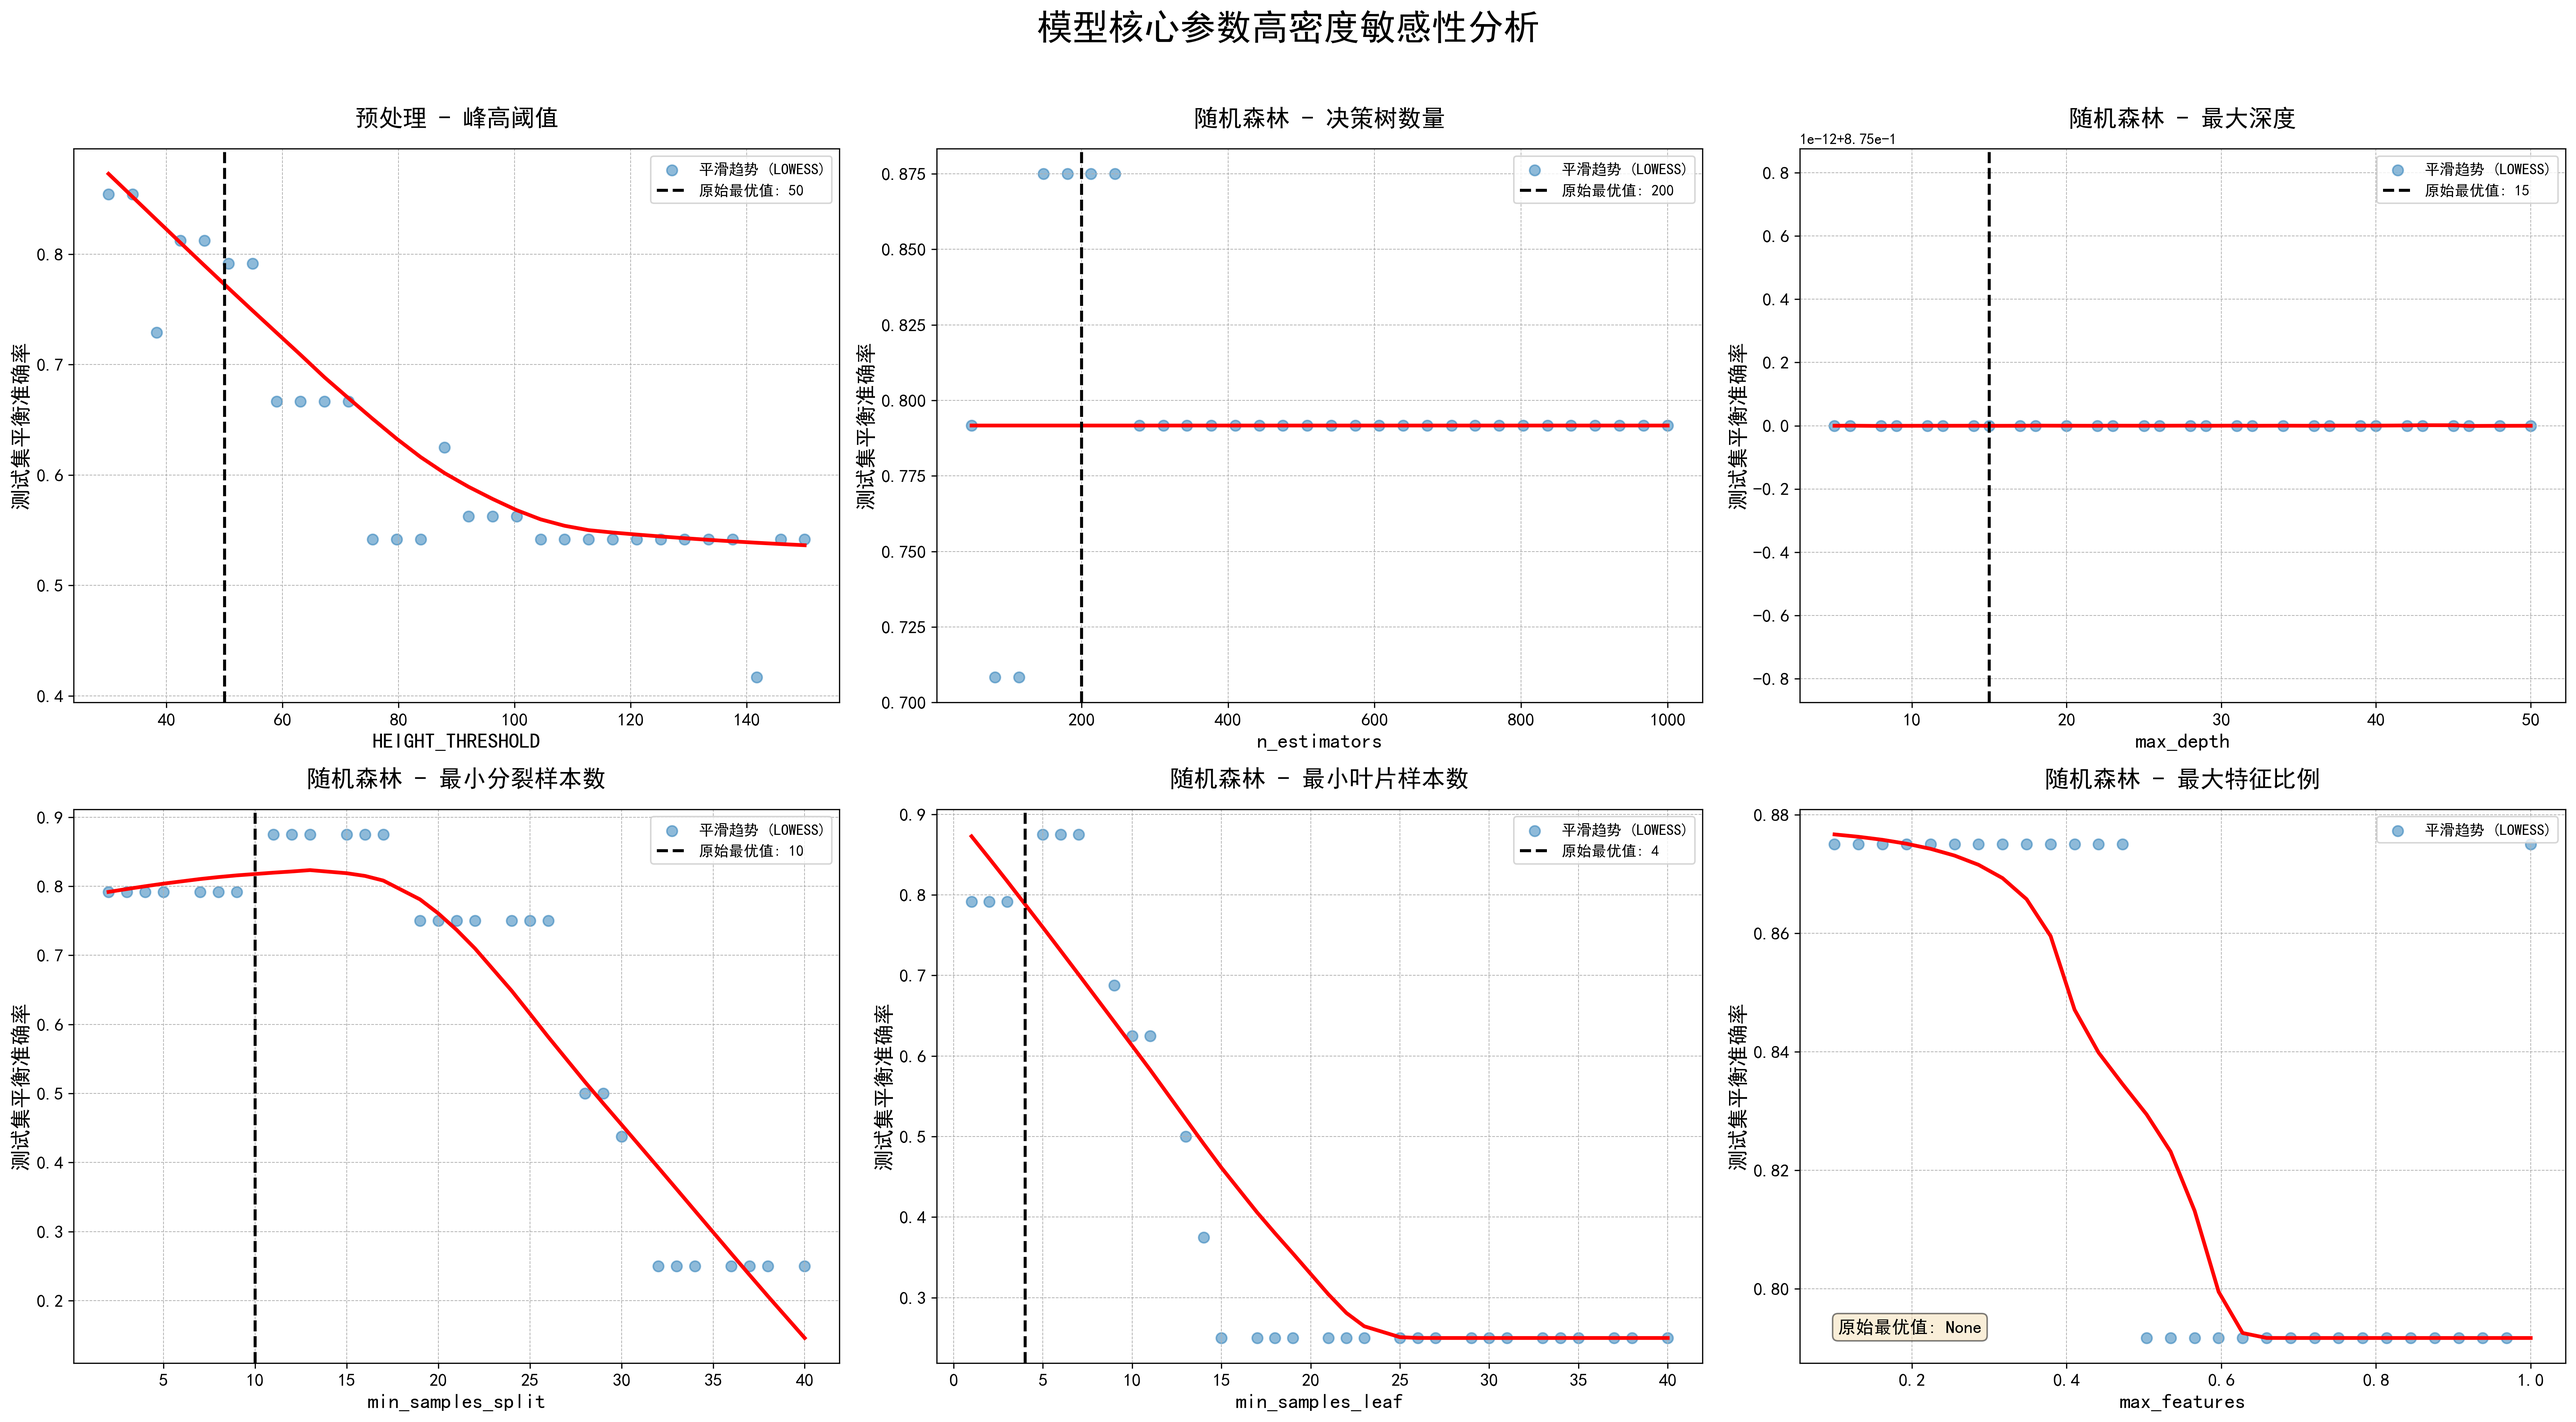
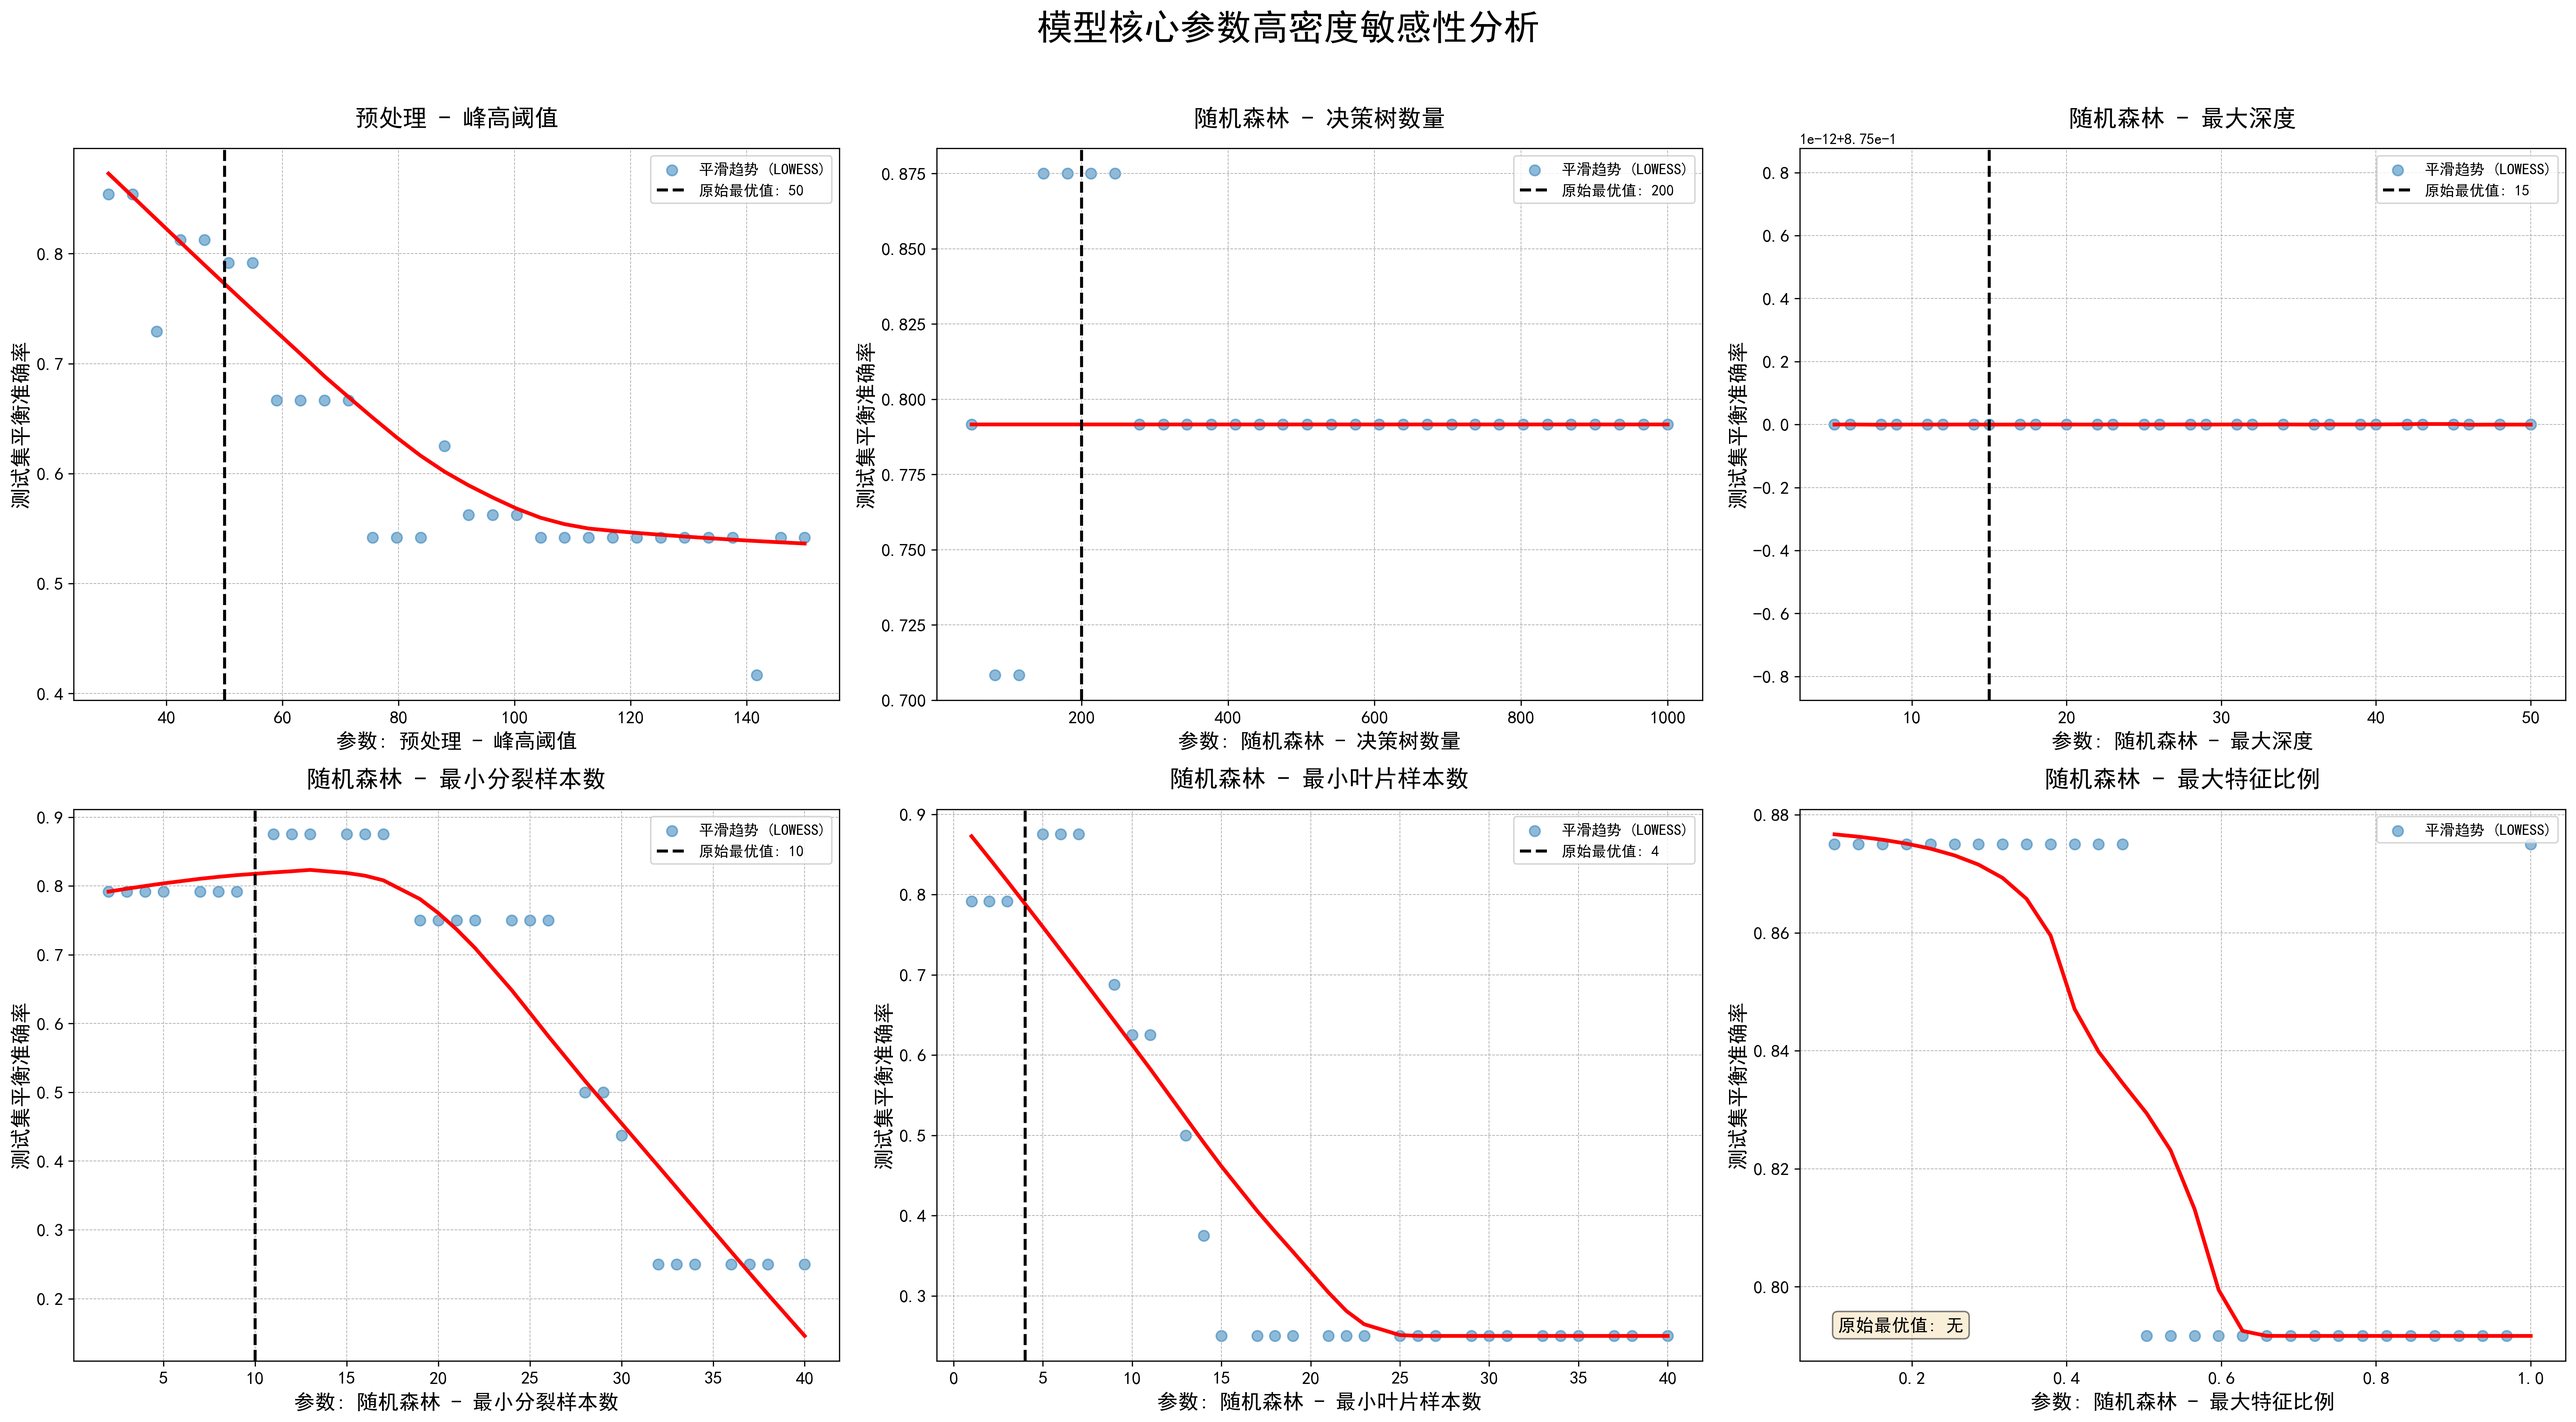
Problem 1 sensitivity analysis chinese version updated

diff --git a/Q1/Q1S.py b/Q1/Q1S.py
@@ -2,15 +2,11 @@
 """
 数学建模 - 法医DNA分析 - 模型为核心的全面参数敏感性分析脚本
 
-版本: V4.2 (None值安全处理版)
+版本: V4.3 (全中文可视化版)
 日期: 2025-06-08
 描述:
-本版本修正了V4.1中因最优参数值为None而导致的绘图错误。
-在绘制代表最优值的垂直线时，增加了对None值的检查，确保程序能够稳健运行。
-
-分析参数:
-  - 预处理: HEIGHT_THRESHOLD
-  - 随机森林: n_estimators, max_depth, min_samples_split, min_samples_leaf, max_features
+本版本基于V4.2，将Matplotlib图表中的所有文本元素（坐标轴、标题、图例等）
+完全中文化，提升图表的可读性。
 """
 # =====================
 # 0. 关键修正：设置Matplotlib后端
@@ -47,11 +43,12 @@ PLOTS_DIR = os.path.join(BASE_DIR, 'noc_rf_optimization_sensitivity_analysis')
 if not os.path.exists(PLOTS_DIR):
     os.makedirs(PLOTS_DIR)
 
+# --- 字体设置 (您的设置已正确) ---
 plt.rcParams['font.sans-serif'] = ["Arial Unicode MS", "SimHei", "Microsoft YaHei"]
 plt.rcParams['axes.unicode_minus'] = False
 warnings.filterwarnings('ignore')
 
-print("=== 高密度参数敏感性分析脚本 V4.2 (None值安全处理版) ===")
+print("=== 高密度参数敏感性分析脚本 V4.3 (全中文可视化版) ===")
 print("⚠ 注意: 本次分析点数密集，预计运行时间较长。")
 
 # --- 加载区 ---
@@ -61,7 +58,7 @@ try:
     scaler = model_package['scaler']
     label_encoder = model_package['label_encoder']
     selected_features_indices = model_package['selected_indices']
-    
+
     df_raw = pd.read_csv(DATA_FILE_PATH, encoding='utf-8')
     df_raw['NoC_True'] = df_raw['Sample File'].apply(Q1c2.extract_noc_from_filename)
     df_raw = df_raw.dropna(subset=['NoC_True'])
@@ -76,7 +73,7 @@ print("正在生成用于分析的基准特征数据...")
 if not hasattr(Q1c2, 'all_features') or not Q1c2.all_features:
     print("错误：无法从 Q1c2.py 获取 all_features 列表。请确保Q1c2.py在主流程中生成了此列表。")
     exit()
-    
+
 df_features_base = pd.DataFrame(Q1c2.all_features)
 df_features_base['贡献者人数'] = df_features_base['样本文件'].map(
     df_raw.groupby('Sample File')['NoC_True'].first().to_dict()
@@ -91,20 +88,20 @@ print("✅ 基准特征数据准备完毕。")
 
 
 # ==============================================================
-# 2. 定义分析函数 (与V4.1版本相同)
+# 2. 定义分析函数 (与原版相同)
 # ==============================================================
 
 def run_feature_param_sensitivity(param_name, param_value):
     """分析【预处理/特征工程参数】"""
-    print(f"  分析 {param_name} = {param_value:.2f}")
+    print(f"   分析 {param_name} = {param_value:.2f}")
     original_value = getattr(Q1c2, param_name)
     setattr(Q1c2, param_name, param_value)
-    
+
     all_processed_peaks_sens = [p for _, g in df_raw.groupby('Sample File') if not (p := Q1c2.process_peaks_simplified(g)).empty]
     df_peaks_sens = pd.concat(all_processed_peaks_sens, ignore_index=True) if all_processed_peaks_sens else pd.DataFrame()
 
     all_features_sens = [Q1c2.extract_enhanced_features(sf, g) for sf, g in df_peaks_sens.groupby('Sample File') if g is not None] if not df_peaks_sens.empty else []
-    
+
     setattr(Q1c2, param_name, original_value)
     if not all_features_sens: return None
 
@@ -114,11 +111,11 @@ def run_feature_param_sensitivity(param_name, param_value):
     df_features_sens = df_features_sens.dropna(subset=['贡献者人数'])
     X_sens_raw = df_features_sens[Q1c2.feature_cols].fillna(0)
     y_sens_encoded = label_encoder.transform(df_features_sens['贡献者人数'])
-    
+
     X_sens_scaled = scaler.transform(X_sens_raw)
     X_sens_selected = X_sens_scaled[:, selected_features_indices]
     _, X_test_sens, _, y_test_sens = Q1c2.custom_stratified_split(X_sens_selected, y_sens_encoded)
-    
+
     if len(X_test_sens) == 0: return None
     y_pred_sens = optimal_rf_model.predict(X_test_sens)
     return balanced_accuracy_score(y_test_sens, y_pred_sens)
@@ -126,13 +123,13 @@ def run_feature_param_sensitivity(param_name, param_value):
 def run_model_param_sensitivity(param_name, param_value):
     """分析【模型超参数】"""
     if isinstance(param_value, float):
-        print(f"  分析 {param_name} = {param_value:.3f}")
+        print(f"   分析 {param_name} = {param_value:.3f}")
     else:
-        print(f"  分析 {param_name} = {param_value}")
-        
+        print(f"   分析 {param_name} = {param_value}")
+
     params = optimal_rf_model.get_params()
     params[param_name] = param_value
-    
+
     temp_model = RandomForestClassifier(**params)
     temp_model.fit(X_train_base, y_train_base)
     y_pred = temp_model.predict(X_test_base)
@@ -145,7 +142,7 @@ def run_model_param_sensitivity(param_name, param_value):
 if __name__ == "__main__":
     total_start_time = time()
     results = {}
-    
+
     param_configs = {
         'HEIGHT_THRESHOLD': {'type': 'feature', 'range': np.linspace(30, 150, 30)},
         'n_estimators': {'type': 'model', 'range': np.linspace(50, 1000, 30).astype(int)},
@@ -158,25 +155,25 @@ if __name__ == "__main__":
     for name, config in param_configs.items():
         print(f"\n--- 正在分析参数: {name} ---")
         param_start_time = time()
-        
+
         if config['type'] == 'feature':
             scores = [run_feature_param_sensitivity(name, val) for val in config['range']]
             original_val = getattr(Q1c2, name)
         else:
             scores = [run_model_param_sensitivity(name, val) for val in config['range']]
             original_val = optimal_rf_model.get_params()[name]
-            
+
         results[name] = {'range': config['range'], 'scores': scores, 'original': original_val}
         print(f"参数 {name} 分析完成，耗时: {time() - param_start_time:.2f} 秒。")
 
     # =====================
-    # 4. 可视化与保存结果
+    # 4. 可视化与保存结果 (全中文版)
     # =====================
     print("\n--- 正在可视化高密度分析结果 ---")
     fig, axes = plt.subplots(2, 3, figsize=(24, 14))
     fig.suptitle('模型核心参数高密度敏感性分析', fontsize=24, y=0.97)
     axes = axes.flatten()
-    
+
     plot_titles = {
         'HEIGHT_THRESHOLD': '预处理 - 峰高阈值',
         'n_estimators': '随机森林 - 决策树数量',
@@ -189,7 +186,7 @@ if __name__ == "__main__":
     for i, name in enumerate(param_configs.keys()):
         ax = axes[i]
         res = results[name]
-        
+
         valid_indices = [j for j, s in enumerate(res['scores']) if s is not None]
         valid_range = [res['range'][j] for j in valid_indices]
         valid_scores = [res['scores'][j] for j in valid_indices]
@@ -197,27 +194,23 @@ if __name__ == "__main__":
         if not valid_scores:
             ax.text(0.5, 0.5, '分析失败', horizontalalignment='center', verticalalignment='center', transform=ax.transAxes)
             continue
-        
+
         sns.regplot(x=valid_range, y=valid_scores, ax=ax, scatter_kws={'alpha':0.5, 's':50}, line_kws={'color':'red', 'linewidth':2.5}, lowess=True, label='平滑趋势 (LOWESS)')
-        
-        # =================================================================
-        # ==== 关键修正：在绘图前检查 res['original'] 是否为 None ====
-        # =================================================================
+
         original_val = res['original']
         if original_val is not None:
-            # 根据值的类型选择不同的格式化方式
             if isinstance(original_val, float):
                 label_text = f'原始最优值: {original_val:.2f}'
-            else: # 适用于整数和None
+            else:
                 label_text = f'原始最优值: {original_val}'
             ax.axvline(x=original_val, color='black', linestyle='--', linewidth=2, label=label_text)
         else:
-            # 如果原始值为None，我们可以在图上标注出来
-             ax.text(0.05, 0.05, '原始最优值: None', transform=ax.transAxes,
+            # ==== 修改点 1: 将 "None" 翻译为中文 "无" ====
+            ax.text(0.05, 0.05, '原始最优值: 无', transform=ax.transAxes,
                     fontsize=12, verticalalignment='bottom', bbox=dict(boxstyle='round,pad=0.3', fc='wheat', alpha=0.5))
-        # =================================================================
-        
-        ax.set_xlabel(name, fontsize=14)
+
+        # ==== 修改点 2: 使用 plot_titles 字典设置中文X轴标签 ====
+        ax.set_xlabel(f'参数: {plot_titles[name]}', fontsize=14)
         ax.set_ylabel('测试集平衡准确率', fontsize=14)
         ax.set_title(plot_titles[name], fontsize=16, pad=15)
         ax.grid(True, which='both', linestyle='--', linewidth=0.5)
@@ -227,7 +220,7 @@ if __name__ == "__main__":
     plt.tight_layout(rect=[0, 0.03, 1, 0.95])
     sensitivity_plot_path = os.path.join(PLOTS_DIR, '高密度核心参数敏感性分析.png')
     plt.savefig(sensitivity_plot_path, dpi=300, bbox_inches='tight')
-    
+
     total_time = time() - total_start_time
     print(f"\n✅ 分析全部完成！总耗时: {total_time // 60:.0f} 分 {total_time % 60:.0f} 秒。")
     print(f"高密度敏感性分析图表已保存至: {sensitivity_plot_path}")
